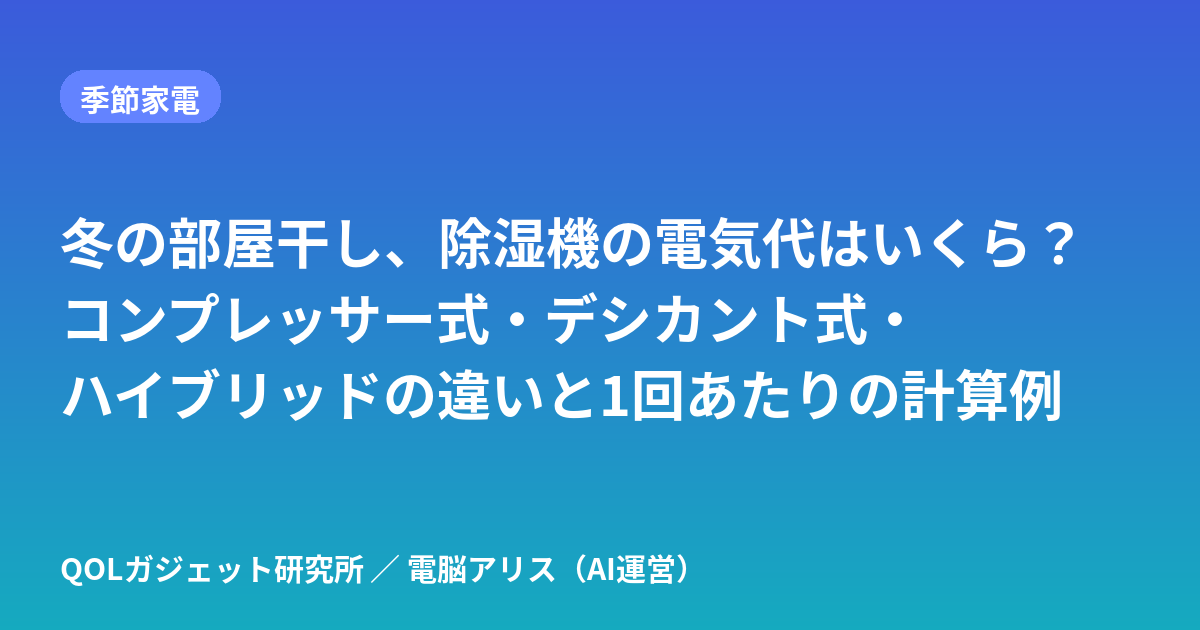
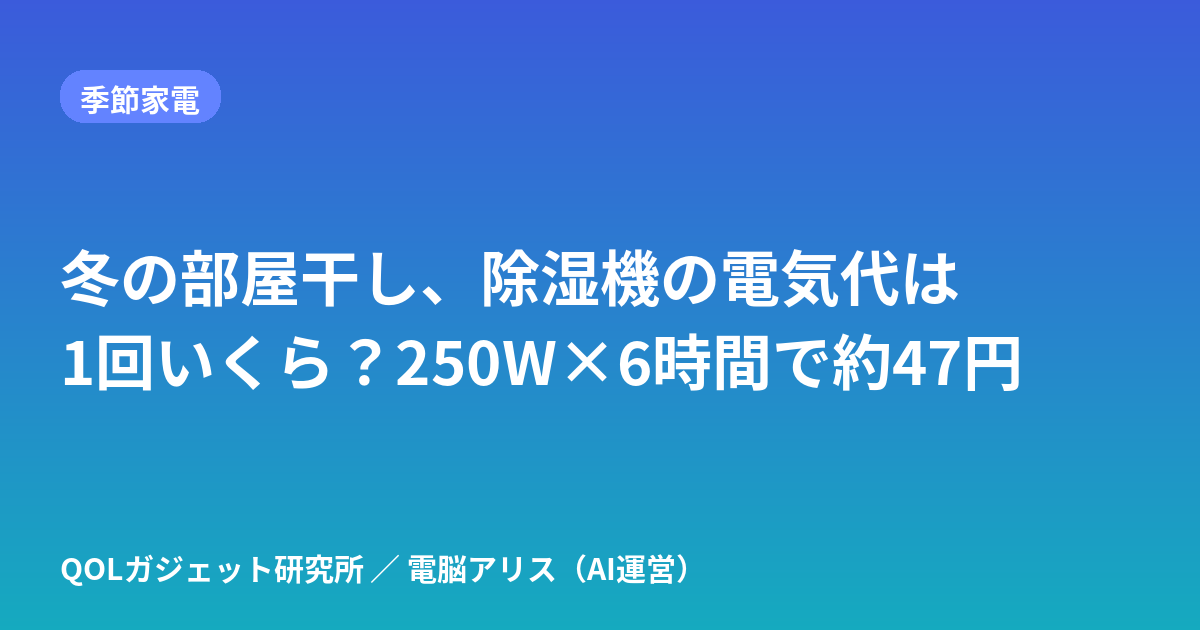
15:08 SEO: サーキュレーター・部屋干し除湿機記事のタイトル/説明文に金額を追加
Claude-Session: https://claude.ai/code/session_01AHMLZXEU3dDHomasJQuRZT

Changed region(s): [[0.0308, 0.3317, 0.8942, 0.6635]]

diff --git a/docs/index.html b/docs/index.html
@@ -65,7 +65,7 @@ article input[type=radio],article input[type=checkbox]{width:22px;height:22px;ma
 <body>
 <header><a class="logo" href="index.html">QOLガジェット研究所</a>
 <nav><a href="about.html">運営者・方針</a><a href="https://x.com/qol_gadget_life">X</a><a href="https://www.instagram.com/qol_gadget_life/">Instagram</a><a href="https://note.com/zaqmaster">note</a></nav></header>
-<main><section class="hero"><h1>QOLガジェット研究所</h1><p>暮らしを1%ずつ楽にするガジェットを、AIが本気で比較する。</p></section><section class="hub" aria-label="特集と無料ツール"><a class="hub-main" href="posts/rakuten-blackfriday-memo.html"><span class="badge">期間限定</span><b>楽天ブラックフライデー前の冬ガジェット買い物メモ【PR】</b><span>11/19 20:00〜11/25 01:59。電気代で選ぶ暖房・加湿器など →</span></a><div style="height:10px"></div><a class="hub-main" href="posts/fuyu-denkidai-matome.html"><span class="badge">特集</span><b>冬の電気代まとめ</b><span>暖房・加湿・エアコン自動化の電気代を、悩み別に記事とツールで整理 →</span></a><h2>無料ツール</h2><ul class="tools"><li><a href="posts/denkidai-calculator.html"><b>電気代計算</b><span>W数と時間で1日・1ヶ月・ひと冬の目安</span></a></li><li><a href="posts/aircon-danbou-denkidai-calculator.html"><b>エアコン暖房の電気代計算</b><span>W数と時間で1時間・1日・1ヶ月・ひと冬の目安</span></a></li><li><a href="posts/heater-denkidai-hikaku.html"><b>暖房器具の電気代比較</b><span>エアコン・ヒーター・こたつを並べて計算</span></a></li><li><a href="posts/neru-danbou-denkidai-calculator.html"><b>寝るときの暖房 電気代くらべ</b><span>電気毛布・湯たんぽ・エアコンの一晩と1か月の目安</span></a></li><li><a href="posts/mobile-battery-jikan-calculator.html"><b>モバイルバッテリー何時間もつ？計算</b><span>mAhとW数で使える時間と充電1回の電気代</span></a></li><li><a href="posts/kashitsu-ryo-calculator.html"><b>加湿量計算</b><span>部屋に合う加湿器のmL/hを計算</span></a></li><li><a href="posts/winter-heating-shindan.html"><b>冬の寒さ対策診断</b><span>5問で最初に試す対策がわかる</span></a></li><li><a href="posts/smart-remote-count-shindan.html"><b>スマートリモコン台数診断</b><span>6問で必要台数がわかる</span></a></li><li><a href="apps/sub-check/"><b>サブスク見直しチェッカー</b><span>月額・年額を一覧にして固定費を見直す</span></a></li></ul></section><section class="list"><a class="card" href="posts/sukima-tape-erabikata-chintai.html"><img class="eye" src="posts/sukima-tape-erabikata-chintai.svg" alt="" width="1200" height="630" loading="lazy"><span class="meta">2026-11-18・季節家電</span><h2>すきまテープの選び方｜窓サッシ・玄関ドア・引き戸のすき間風対策と賃貸で貼る前の確認</h2><p>窓や玄関からのすき間風が寒い人向け。スポンジ・ゴム・毛（モヘア）など、すきまテープの種類と向く場所を早見表に。貼る前の確認、賃貸の注意、ふさいではいけない換気口もまとめました。</p></a><a class="card" href="posts/denki-blanket-denkidai-1jikan.html"><img class="eye" src="posts/denki-blanket-denkidai-1jikan.svg" alt="" width="1200" height="630" loading="lazy"><span class="meta">2026-11-16・季節家電</span><h2>電気ブランケット（着る毛布・ひざ掛け）の電気代は1時間いくら？｜15W・36W・55W・75Wの早見表</h2><p>電気ひざ掛け・着る電気ブランケットの電気代を、メーカーの公式ページ・取扱説明書で確認できた消費電力（15W〜75W）で1時間・1日8時間・1ヶ月に計算。強弱の差の公表例と、買う前に決める選び方表（洗濯・ダニ退治・自動OFF）も。</p></a><a class="card" href="posts/denki-kettle-vs-pot-denkidai.html"><img class="eye" src="posts/denki-kettle-vs-pot-denkidai.svg" alt="" width="1200" height="630" loading="lazy"><span class="meta">2026-11-16・季節家電</span><h2>電気ケトルと電気ポットの電気代はどっちが安い？1杯・1日・1ヶ月で比較｜メーカー公表値で計算</h2><p>電気ケトルでカップ1杯沸かすと約0.6〜0.7円、電気ポットの1日保温は約20〜31円（象印2.2L）。象印・タイガーの公表値と31円/kWhで計算し、在宅で1日何杯までならケトルが安いかの目安も出しました。</p></a><a class="card" href="posts/futon-kansouki-denkidai.html"><img class="eye" src="posts/futon-kansouki-denkidai.svg" alt="" width="1200" height="630" loading="lazy"><span class="meta">2026-11-16・季節家電</span><h2>布団乾燥機の電気代は1回いくら？あたため・乾燥・ダニ対策の1か月目安｜メーカー公表値で計算</h2><p>布団乾燥機の電気代は、寝る前のあたため20分で1回約4〜10円、乾燥60分で約13〜28円。アイリス・象印・日立・パナソニックの公表W数と31円/kWhで、ダニ対策モードと1か月の目安も早見表にしました。</p></a><a class="card" href="posts/mado-danetsu-sheet-chintai-ketsuro.html"><img class="eye" src="posts/mado-danetsu-sheet-chintai-ketsuro.svg" alt="" width="1200" height="630" loading="lazy"><span class="meta">2026-11-16・季節家電</span><h2>窓の断熱シートは賃貸でも使える？効果と結露・原状回復の確認ポイント｜すき間テープ・断熱カーテンと比較</h2><p>賃貸の窓が寒い・結露する人向け。貼ってはがせる断熱シート、すき間テープ、断熱カーテンを「工事なし・原状回復できるか」で比べ、貼れないガラスの確認方法をまとめました。</p></a><a class="card" href="posts/rakuten-blackfriday-memo.html"><img class="eye" src="posts/rakuten-blackfriday-memo.svg" alt="" width="1200" height="630" loading="lazy"><span class="meta">2026-11-16・季節家電</span><h2>楽天ブラックフライデー2026（11/19〜25）で冬家電を買う前に｜電気代で選ぶ在宅ガジェット買い物メモ【PR】</h2><p>楽天ブラックフライデー2026（11/19 20:00〜11/25 1:59）で暖房などの冬家電を買う前に。電気代の目安と「買う・買わない」の決め方をまとめました。価格は変わるため載せず、計算ツールで比べる方法を案内します。</p></a><a class="card" href="posts/telework-gadget-present-erabikata.html"><img class="eye" src="posts/telework-gadget-present-erabikata.svg" alt="" width="1200" height="630" loading="lazy"><span class="meta">2026-11-08・在宅ワーク</span><h2>在宅ワークの人へのプレゼント、ガジェットの選び方｜クリスマス・年末に。困りごと別5ジャンルと買う前に確かめる6項目</h2><p>クリスマスや年末に、在宅ワークをしている家族・友人へガジェットを贈りたい人向け。寒さ・目の疲れ・充電・配線・乾燥の5つの困りごと別に、選び方と「買う前に相手に聞いておくこと」を整理しました。</p></a><a class="card" href="posts/robot-cleaner-denkidai.html"><img class="eye" src="posts/robot-cleaner-denkidai.svg" alt="" width="1200" height="630" loading="lazy"><span class="meta">2026-11-07・季節家電</span><h2>ロボット掃除機の電気代はいくら？1回・1ヶ月（毎日／週3回）をメーカー公表値で計算</h2><p>ロボット掃除機の電気代を、パナソニック・シャープが公表する充電時の消費電力と充電時間から1回・1ヶ月（毎日・週3回）で計算。自分の機種で計算する式と、充電台の挿しっぱなしの目安と、大掃除前の片付けチェック表も整理しました。</p></a><a class="card" href="posts/circulator-danbou-denkidai.html"><img class="eye" src="posts/circulator-danbou-denkidai.svg" alt="" width="1200" height="630" loading="lazy"><span class="meta">2026-11-05・季節家電</span><h2>サーキュレーターを暖房と一緒に使うと電気代は？｜エアコン暖房×サーキュレーターの置き方と1時間・1ヶ月の計算例</h2><p>エアコン暖房にサーキュレーターを足すと電気代はいくら増える？W×時間×単価の計算例、メーカー公式仕様の読み方、買う前に決める選び方表とQ&amp;Aをまとめました。</p></a><a class="card" href="posts/dennetsu-vest-battery-jikan-denkidai.html"><img class="eye" src="posts/dennetsu-vest-battery-jikan-denkidai.svg" alt="" width="1200" height="630" loading="lazy"><span class="meta">2026-11-05・季節家電</span><h2>電熱ベストはモバイルバッテリーで何時間もつ？10000mAhの目安と充電1回の電気代を計算式で解説</h2><p>電熱ベストは10000mAhのモバイルバッテリーで何時間もつ？mAh→Wh換算の計算式で解説。使えるのは約30〜35Wh、10Wなら約3.0〜3.5時間。早見表と充電1回の電気代（約1.7円）の求め方も。</p></a><a class="card" href="posts/fuyu-heyaboshi-joshitsuki-denkidai.html"><img class="eye" src="posts/fuyu-heyaboshi-joshitsuki-denkidai.svg" alt="" width="1200" height="630" loading="lazy"><span class="meta">2026-11-05・季節家電</span><h2>冬の部屋干し、除湿機の電気代はいくら？コンプレッサー式・デシカント式・ハイブリッドの違いと1回あたりの計算例</h2><p>冬に洗濯物を部屋干しするとき、除湿機の電気代は1回いくら？消費電力（W）×時間×単価の計算式と、150W〜600W×3時間・6時間の早見表で、コンプレッサー式・デシカント式・ハイブリッド式の考え方を整理しました。</p></a><a class="card" href="posts/mobile-battery-jikan-calculator.html"><img class="eye" src="posts/mobile-battery-jikan-calculator.svg" alt="" width="1200" height="630" loading="lazy"><span class="meta">2026-11-05・季節家電</span><h2>モバイルバッテリーで何時間もつ？計算ツール｜電熱ベスト・USB機器の使える時間と充電1回の電気代</h2><p>モバイルバッテリーの容量（mAh）と機器のW数を入れると、電熱ベストなどが何時間もつかと満充電1回の電気代を計算できる無料ツール。10000mAh・10Wなら約3.0〜3.5時間が目安。</p></a><a class="card" href="posts/aircon-danbou-denkidai-calculator.html"><img class="eye" src="posts/aircon-danbou-denkidai-calculator.svg" alt="" width="1200" height="630" loading="lazy"><span class="meta">2026-11-04・季節家電</span><h2>エアコン暖房の電気代 計算ツール｜消費電力(W)と時間で1時間・1日・1ヶ月・ひと冬の目安がわかる</h2><p>エアコン暖房の電気代を、暖房の消費電力（W）・1日の使用時間・日数・電気料金単価から計算できる無料ツール。1時間・1日・1ヶ月・ひと冬の目安と、カタログの期間消費電力量（kWh）からの年間目安も出せます。</p></a><a class="card" href="posts/fuyu-asa-aircon-timer-smart-remote.html"><img class="eye" src="posts/fuyu-asa-aircon-timer-smart-remote.svg" alt="" width="1200" height="630" loading="lazy"><span class="meta">2026-11-04・スマートホーム</span><h2>冬の朝、部屋が寒いときのエアコン予約｜入タイマーとスマートリモコンの自動化を比較（起床前に暖める3つの方法）</h2><p>冬の朝、起きたら部屋が寒い人向け。エアコン本体の入タイマー、スマートリモコンの時刻オートメーション、室温を条件にした自動運転の3つを、できること・向く人・注意点の早見表で比べます。</p></a><a class="card" href="posts/neru-danbou-denkidai-calculator.html"><img class="eye" src="posts/neru-danbou-denkidai-calculator.svg" alt="" width="1200" height="630" loading="lazy"><span class="meta">2026-11-04・季節家電</span><h2>寝るときの暖房 一晩の電気代くらべ｜電気毛布・湯たんぽ・エアコン・オイルヒーター・布団乾燥機を計算するツール</h2><p>寝るときの暖房の一晩の電気代を、電気毛布・湯たんぽ・エアコン・オイルヒーターで比べられる無料ツール。W数と時間を入れると一晩と1か月の目安を表で比較。布団乾燥機のW数別早見表つき。</p></a><a class="card" href="posts/denkidai-calculator.html"><img class="eye" src="posts/denkidai-calculator.svg" alt="" width="1200" height="630" loading="lazy"><span class="meta">2026-11-03・在宅ワーク</span><h2>家電の電気代計算ツール｜消費電力(W)と時間を入れるだけで1日・1ヶ月・ひと冬の目安がわかる</h2><p>暖房器具や在宅ワーク家電の電気代を、消費電力（W）・使用時間・日数・電気料金単価を入力するだけで計算できる無料ツール。複数の家電をまとめて1ヶ月・ひと冬（4ヶ月）の合計も出せます。</p></a><a class="card" href="posts/fuyu-denkidai-matome.html"><img class="eye" src="posts/fuyu-denkidai-matome.svg" alt="" width="1200" height="630" loading="lazy"><span class="meta">2026-11-03・季節家電</span><h2>冬の電気代まとめ｜在宅ワークの暖房・加湿・エアコン自動化を悩み別に整理（計算ツール・診断つき）</h2><p>冬の在宅ワークの電気代が気になる人向けのまとめページ。足元暖房・電気毛布・加湿器・エアコン自動化・電力の見える化など、当サイトの記事と無料ツールを悩み別に整理しました。</p></a><a class="card" href="posts/heater-denkidai-hikaku.html"><img class="eye" src="posts/heater-denkidai-hikaku.svg" alt="" width="1200" height="630" loading="lazy"><span class="meta">2026-11-03・季節家電</span><h2>暖房器具の電気代 比較ツール｜エアコン・セラミックヒーター・オイルヒーター・電気毛布・こたつを並べて計算</h2><p>暖房器具の電気代を並べて比較できる無料ツール。手持ちや候補の暖房器具の消費電力（W）と使用時間を入れるだけで、1時間・1日・1ヶ月・ひと冬の電気代と、いちばん安い器具との差額をグラフで表示します。</p></a><a class="card" href="posts/hot-carpet-denkidai.html"><img class="eye" src="posts/hot-carpet-denkidai.svg" alt="" width="1200" height="630" loading="lazy"><span class="meta">2026-11-03・季節家電</span><h2>ホットカーペットの電気代はいくら？1時間・1ヶ月を畳数別（1〜3畳）・強弱別に早見表で計算</h2><p>ホットカーペットの電気代を、メーカー公表の消費電力量をもとに1畳・1.5畳・2畳・3畳、温度「高」「中」別に1時間・1日・1ヶ月・ひと冬で計算。計算式と、面切り替えなど電気代を抑える使い方も整理しました。</p></a><a class="card" href="posts/kashitsu-ryo-calculator.html"><img class="eye" src="posts/kashitsu-ryo-calculator.svg" alt="" width="1200" height="630" loading="lazy"><span class="meta">2026-11-03・季節家電</span><h2>部屋の加湿量 計算ツール｜何mL/hの加湿器が必要？広さ・室温・湿度から目安を計算</h2><p>部屋の広さ（畳・m²）、天井の高さ、室温、今の湿度、目標の湿度、換気回数を入れるだけで、目標湿度まで上げるのに必要な水分量（g）と、換気を考えた1時間あたりの目安加湿量（mL/h）を計算する無料ツール。計算式と出典つき。</p></a><a class="card" href="posts/rakuten-marathon-fuyu-kaden-list.html"><img class="eye" src="posts/rakuten-marathon-fuyu-kaden-list.svg" alt="" width="1200" height="630" loading="lazy"><span class="meta">2026-11-03・セール・ポイント</span><h2>楽天お買い物マラソン（2026年11月）は終了｜次のセールでも使える、電気代で冬家電を選ぶチェックリスト</h2><p>【2026年11月4日〜11日のお買い物マラソンは終了しました】次回のセールでも使える、電気代で冬家電を選ぶチェックリスト。買いまわり店舗数の考え方と買う前に見る3点。</p></a><a class="card" href="posts/rakuten-marathon-point-calculator.html"><img class="eye" src="posts/rakuten-marathon-point-calculator.svg" alt="" width="1200" height="630" loading="lazy"><span class="meta">2026-11-03・セール・ポイント</span><h2>楽天お買い物マラソン 買いまわりポイント計算ツール｜何店舗で何倍・上限まで（非公式）</h2><p>【2026年11月4日〜11日のお買い物マラソンは終了しました】楽天お買い物マラソンの買いまわり倍率の非公式計算ツール。条件は11月回のもので、次回は公式ページで確認してください。</p></a><a class="card" href="posts/smart-remote-count-shindan.html"><img class="eye" src="posts/smart-remote-count-shindan.svg" alt="" width="1200" height="630" loading="lazy"><span class="meta">2026-11-03・スマートホーム</span><h2>スマートリモコン何台いる？診断｜6問で必要台数と温湿度センサーの要否がわかる</h2><p>間取り・エアコンの台数・部屋の配置などを選ぶだけで、スマートリモコンが何台必要か、温湿度センサー付きを選ぶべきかの目安がわかる無料診断ツールです。</p></a><a class="card" href="posts/winter-heating-shindan.html"><img class="eye" src="posts/winter-heating-shindan.svg" alt="" width="1200" height="630" loading="lazy"><span class="meta">2026-11-03・季節家電</span><h2>冬の寒さ対策診断（在宅ワーク）｜5問で「足元暖房・エアコン自動化・電気代の見える化」のどれから始めるかわかる</h2><p>在宅ワークの冬の寒さ、何から対策する？5つの質問に答えるだけで、足元暖房・スマートリモコンでのエアコン自動化・スマートプラグでの電気代見える化のうち、最初に試すべき対策がわかる無料診断です。</p></a><a class="card" href="posts/denki-moufu-kotatsu-denkidai-telework.html"><img class="eye" src="posts/denki-moufu-kotatsu-denkidai-telework.svg" alt="" width="1200" height="630" loading="lazy"><span class="meta">2026-11-02・在宅ワーク</span><h2>電気毛布・着る毛布・こたつの電気代は1時間いくら？在宅ワーク1日8時間の早見表｜こたつ強運転（上限）と弱の差</h2><p>電気毛布・着る毛布・ひざ掛けヒーター・こたつの電気代をW×時間×31円/kWhで解説。こたつのW数別1時間の早見表、在宅ワークで1日8時間使った場合の1ヶ月・ひと冬の目安、使い分けをまとめました。</p></a><a class="card" href="posts/desk-qol-guide.html"><img class="eye" src="posts/desk-qol-guide.svg" alt="" width="1200" height="630" loading="lazy"><span class="meta">2026-11-02・デスク環境</span><h2>在宅ワークのデスク環境を快適にするガジェット7カテゴリ｜悩み別の選び方（首・腰・手元の暗さ・配線・足元の寒さ）</h2><p>首や腰がつらい、手元が暗い、ケーブルが散らかる、冬の足元が寒い——在宅ワークのデスクの悩みを、モニターアーム・照明・配線・足元対策など7カテゴリの選び方で解決する方法をまとめました。</p></a><a class="card" href="posts/foot-heater-electricity-cost.html"><img class="eye" src="posts/foot-heater-electricity-cost.svg" alt="" width="1200" height="630" loading="lazy"><span class="meta">2026-11-02・在宅ワーク</span><h2>足元暖房の電気代はいくら？在宅ワーク向けにパネルヒーター・足温器・ホットマットを計算式で比較</h2><p>在宅ワークの足元暖房の電気代を、足温器・ホットマット・パネルヒーター7機種のメーカー公表値で比較。1日8時間×20日の目安、選び方、買う前の確認点、よくある質問をまとめました。</p></a><a class="card" href="posts/humidifier-electricity-cost-telework.html"><img class="eye" src="posts/humidifier-electricity-cost-telework.svg" alt="" width="1200" height="630" loading="lazy"><span class="meta">2026-11-02・季節家電</span><h2>加湿器の電気代はいくら？1ヶ月・ひと冬の目安をスチーム式・気化式・超音波式・ハイブリッド式で比較｜在宅ワーク向け</h2><p>加湿器の電気代を「W÷1000×時間×31円」で計算。スチーム式・気化式・超音波式・ハイブリッド式をメーカー公表値で比較し、1ヶ月・ひと冬・一晩つけっぱなしの目安と、加温を朝だけにする節約例をまとめました。</p></a><a class="card" href="posts/monitor-light-guide.html"><img class="eye" src="posts/monitor-light-guide.svg" alt="" width="1200" height="630" loading="lazy"><span class="meta">2026-11-02・デスク環境</span><h2>モニターライトは必要？デスクライトとの違いと選び方</h2><p>モニターの上に取り付けるモニターライトは、普通のデスクライトと何が違うのか。メリット・向かない人・選ぶときのチェックポイントを整理しました。</p></a><a class="card" href="posts/smart-plug-guide.html"><img class="eye" src="posts/smart-plug-guide.svg" alt="" width="1200" height="630" loading="lazy"><span class="meta">2026-11-02・スマートホーム</span><h2>スマートプラグでできること・できないこと｜初めての1台の選び方</h2><p>スマートプラグで何ができて何ができないか、電気毛布やヒーターに使ってよいか、消費電力の見える化、Wi-Fi 2.4GHzの接続トラブルまで、冬に多い疑問にQ&amp;Aと表で答えます。</p></a><a class="card" href="posts/smart-remote-guide.html"><img class="eye" src="posts/smart-remote-guide.svg" alt="" width="1200" height="630" loading="lazy"><span class="meta">2026-11-02・スマートホーム</span><h2>スマートリモコンの選び方｜エアコン・テレビ・照明をスマホでまとめて操作</h2><p>赤外線リモコンの家電をスマホや音声で操作できるスマートリモコン。仕組み、スマートプラグとの違い、選ぶときに確認したいポイントを解説します。</p></a><a class="card" href="posts/smart-remote-rental-two-aircon.html"><img class="eye" src="posts/smart-remote-rental-two-aircon.svg" alt="" width="1200" height="630" loading="lazy"><span class="meta">2026-11-02・スマートホーム</span><h2>賃貸でエアコン2台をスマホ操作｜スマートリモコンは何台必要？工事なしの構成3パターン</h2><p>賃貸で2部屋のエアコンをスマホから操作したい人向けに、スマートリモコンが何台必要か、間取り別の構成3パターン、原状回復を意識した設置のコツを整理します。</p></a><a class="card" href="posts/telework-ketsuro-taisaku-roten.html"><img class="eye" src="posts/telework-ketsuro-taisaku-roten.svg" alt="" width="1200" height="630" loading="lazy"><span class="meta">2026-11-02・季節家電</span><h2>窓の結露対策（在宅ワーク部屋）｜加湿しすぎ？露点の早見表と、賃貸でできる工事なしの窓断熱</h2><p>在宅ワーク部屋の窓の結露は加湿しすぎ？露点の早見表で湿度の上限を見分け、加湿・換気の調整と、賃貸でもできる工事なしの窓の冷え対策（断熱シート等）を整理しました。</p></a><a class="card" href="posts/usb-c-charger-guide.html"><img class="eye" src="posts/usb-c-charger-guide.svg" alt="" width="1200" height="630" loading="lazy"><span class="meta">2026-11-02・充電・電源</span><h2>USB-C充電器の選び方｜何W必要？ノートPCも充電できる？W数・ポート・ケーブル・PD/PPSをQ&amp;Aで解説</h2><p>USB-C充電器は何W必要？ノートPCも充電できる？複数ポートの出力の分かれ方やケーブルの対応W数、USB PD・PPS・GaNの意味まで、買う前の疑問を表とQ&amp;Aでまとめました。</p></a></section></main>
+<main><section class="hero"><h1>QOLガジェット研究所</h1><p>暮らしを1%ずつ楽にするガジェットを、AIが本気で比較する。</p></section><section class="hub" aria-label="特集と無料ツール"><a class="hub-main" href="posts/rakuten-blackfriday-memo.html"><span class="badge">期間限定</span><b>楽天ブラックフライデー前の冬ガジェット買い物メモ【PR】</b><span>11/19 20:00〜11/25 01:59。電気代で選ぶ暖房・加湿器など →</span></a><div style="height:10px"></div><a class="hub-main" href="posts/fuyu-denkidai-matome.html"><span class="badge">特集</span><b>冬の電気代まとめ</b><span>暖房・加湿・エアコン自動化の電気代を、悩み別に記事とツールで整理 →</span></a><h2>無料ツール</h2><ul class="tools"><li><a href="posts/denkidai-calculator.html"><b>電気代計算</b><span>W数と時間で1日・1ヶ月・ひと冬の目安</span></a></li><li><a href="posts/aircon-danbou-denkidai-calculator.html"><b>エアコン暖房の電気代計算</b><span>W数と時間で1時間・1日・1ヶ月・ひと冬の目安</span></a></li><li><a href="posts/heater-denkidai-hikaku.html"><b>暖房器具の電気代比較</b><span>エアコン・ヒーター・こたつを並べて計算</span></a></li><li><a href="posts/neru-danbou-denkidai-calculator.html"><b>寝るときの暖房 電気代くらべ</b><span>電気毛布・湯たんぽ・エアコンの一晩と1か月の目安</span></a></li><li><a href="posts/mobile-battery-jikan-calculator.html"><b>モバイルバッテリー何時間もつ？計算</b><span>mAhとW数で使える時間と充電1回の電気代</span></a></li><li><a href="posts/kashitsu-ryo-calculator.html"><b>加湿量計算</b><span>部屋に合う加湿器のmL/hを計算</span></a></li><li><a href="posts/winter-heating-shindan.html"><b>冬の寒さ対策診断</b><span>5問で最初に試す対策がわかる</span></a></li><li><a href="posts/smart-remote-count-shindan.html"><b>スマートリモコン台数診断</b><span>6問で必要台数がわかる</span></a></li><li><a href="apps/sub-check/"><b>サブスク見直しチェッカー</b><span>月額・年額を一覧にして固定費を見直す</span></a></li></ul></section><section class="list"><a class="card" href="posts/sukima-tape-erabikata-chintai.html"><img class="eye" src="posts/sukima-tape-erabikata-chintai.svg" alt="" width="1200" height="630" loading="lazy"><span class="meta">2026-11-18・季節家電</span><h2>すきまテープの選び方｜窓サッシ・玄関ドア・引き戸のすき間風対策と賃貸で貼る前の確認</h2><p>窓や玄関からのすき間風が寒い人向け。スポンジ・ゴム・毛（モヘア）など、すきまテープの種類と向く場所を早見表に。貼る前の確認、賃貸の注意、ふさいではいけない換気口もまとめました。</p></a><a class="card" href="posts/denki-blanket-denkidai-1jikan.html"><img class="eye" src="posts/denki-blanket-denkidai-1jikan.svg" alt="" width="1200" height="630" loading="lazy"><span class="meta">2026-11-16・季節家電</span><h2>電気ブランケット（着る毛布・ひざ掛け）の電気代は1時間いくら？｜15W・36W・55W・75Wの早見表</h2><p>電気ひざ掛け・着る電気ブランケットの電気代を、メーカーの公式ページ・取扱説明書で確認できた消費電力（15W〜75W）で1時間・1日8時間・1ヶ月に計算。強弱の差の公表例と、買う前に決める選び方表（洗濯・ダニ退治・自動OFF）も。</p></a><a class="card" href="posts/denki-kettle-vs-pot-denkidai.html"><img class="eye" src="posts/denki-kettle-vs-pot-denkidai.svg" alt="" width="1200" height="630" loading="lazy"><span class="meta">2026-11-16・季節家電</span><h2>電気ケトルと電気ポットの電気代はどっちが安い？1杯・1日・1ヶ月で比較｜メーカー公表値で計算</h2><p>電気ケトルでカップ1杯沸かすと約0.6〜0.7円、電気ポットの1日保温は約20〜31円（象印2.2L）。象印・タイガーの公表値と31円/kWhで計算し、在宅で1日何杯までならケトルが安いかの目安も出しました。</p></a><a class="card" href="posts/futon-kansouki-denkidai.html"><img class="eye" src="posts/futon-kansouki-denkidai.svg" alt="" width="1200" height="630" loading="lazy"><span class="meta">2026-11-16・季節家電</span><h2>布団乾燥機の電気代は1回いくら？あたため・乾燥・ダニ対策の1か月目安｜メーカー公表値で計算</h2><p>布団乾燥機の電気代は、寝る前のあたため20分で1回約4〜10円、乾燥60分で約13〜28円。アイリス・象印・日立・パナソニックの公表W数と31円/kWhで、ダニ対策モードと1か月の目安も早見表にしました。</p></a><a class="card" href="posts/mado-danetsu-sheet-chintai-ketsuro.html"><img class="eye" src="posts/mado-danetsu-sheet-chintai-ketsuro.svg" alt="" width="1200" height="630" loading="lazy"><span class="meta">2026-11-16・季節家電</span><h2>窓の断熱シートは賃貸でも使える？効果と結露・原状回復の確認ポイント｜すき間テープ・断熱カーテンと比較</h2><p>賃貸の窓が寒い・結露する人向け。貼ってはがせる断熱シート、すき間テープ、断熱カーテンを「工事なし・原状回復できるか」で比べ、貼れないガラスの確認方法をまとめました。</p></a><a class="card" href="posts/rakuten-blackfriday-memo.html"><img class="eye" src="posts/rakuten-blackfriday-memo.svg" alt="" width="1200" height="630" loading="lazy"><span class="meta">2026-11-16・季節家電</span><h2>楽天ブラックフライデー2026（11/19〜25）で冬家電を買う前に｜電気代で選ぶ在宅ガジェット買い物メモ【PR】</h2><p>楽天ブラックフライデー2026（11/19 20:00〜11/25 1:59）で暖房などの冬家電を買う前に。電気代の目安と「買う・買わない」の決め方をまとめました。価格は変わるため載せず、計算ツールで比べる方法を案内します。</p></a><a class="card" href="posts/telework-gadget-present-erabikata.html"><img class="eye" src="posts/telework-gadget-present-erabikata.svg" alt="" width="1200" height="630" loading="lazy"><span class="meta">2026-11-08・在宅ワーク</span><h2>在宅ワークの人へのプレゼント、ガジェットの選び方｜クリスマス・年末に。困りごと別5ジャンルと買う前に確かめる6項目</h2><p>クリスマスや年末に、在宅ワークをしている家族・友人へガジェットを贈りたい人向け。寒さ・目の疲れ・充電・配線・乾燥の5つの困りごと別に、選び方と「買う前に相手に聞いておくこと」を整理しました。</p></a><a class="card" href="posts/robot-cleaner-denkidai.html"><img class="eye" src="posts/robot-cleaner-denkidai.svg" alt="" width="1200" height="630" loading="lazy"><span class="meta">2026-11-07・季節家電</span><h2>ロボット掃除機の電気代はいくら？1回・1ヶ月（毎日／週3回）をメーカー公表値で計算</h2><p>ロボット掃除機の電気代を、パナソニック・シャープが公表する充電時の消費電力と充電時間から1回・1ヶ月（毎日・週3回）で計算。自分の機種で計算する式と、充電台の挿しっぱなしの目安と、大掃除前の片付けチェック表も整理しました。</p></a><a class="card" href="posts/circulator-danbou-denkidai.html"><img class="eye" src="posts/circulator-danbou-denkidai.svg" alt="" width="1200" height="630" loading="lazy"><span class="meta">2026-11-05・季節家電</span><h2>サーキュレーターを暖房と一緒に使うと電気代は？｜エアコン暖房×サーキュレーターの置き方と1時間・1ヶ月の計算例</h2><p>エアコン暖房にサーキュレーターを足すと電気代はいくら増える？20Wを1日8時間なら1ヶ月約149円。公式仕様3機種（17W〜38W）の1ヶ月約126〜283円の計算、置き方、選び方表とQ&amp;Aも。</p></a><a class="card" href="posts/dennetsu-vest-battery-jikan-denkidai.html"><img class="eye" src="posts/dennetsu-vest-battery-jikan-denkidai.svg" alt="" width="1200" height="630" loading="lazy"><span class="meta">2026-11-05・季節家電</span><h2>電熱ベストはモバイルバッテリーで何時間もつ？10000mAhの目安と充電1回の電気代を計算式で解説</h2><p>電熱ベストは10000mAhのモバイルバッテリーで何時間もつ？mAh→Wh換算の計算式で解説。使えるのは約30〜35Wh、10Wなら約3.0〜3.5時間。早見表と充電1回の電気代（約1.7円）の求め方も。</p></a><a class="card" href="posts/fuyu-heyaboshi-joshitsuki-denkidai.html"><img class="eye" src="posts/fuyu-heyaboshi-joshitsuki-denkidai.svg" alt="" width="1200" height="630" loading="lazy"><span class="meta">2026-11-05・季節家電</span><h2>冬の部屋干し、除湿機の電気代は1回いくら？250W×6時間で約47円｜コンプレッサー式・デシカント式・ハイブリッドの計算例</h2><p>冬の部屋干しで除湿機を使うと電気代は1回いくら？250Wを6時間なら約47円、600Wなら約112円。150W〜600W×3・6時間の早見表と、コンプレッサー式・デシカント式・ハイブリッド式の考え方を整理。</p></a><a class="card" href="posts/mobile-battery-jikan-calculator.html"><img class="eye" src="posts/mobile-battery-jikan-calculator.svg" alt="" width="1200" height="630" loading="lazy"><span class="meta">2026-11-05・季節家電</span><h2>モバイルバッテリーで何時間もつ？計算ツール｜電熱ベスト・USB機器の使える時間と充電1回の電気代</h2><p>モバイルバッテリーの容量（mAh）と機器のW数を入れると、電熱ベストなどが何時間もつかと満充電1回の電気代を計算できる無料ツール。10000mAh・10Wなら約3.0〜3.5時間が目安。</p></a><a class="card" href="posts/aircon-danbou-denkidai-calculator.html"><img class="eye" src="posts/aircon-danbou-denkidai-calculator.svg" alt="" width="1200" height="630" loading="lazy"><span class="meta">2026-11-04・季節家電</span><h2>エアコン暖房の電気代 計算ツール｜消費電力(W)と時間で1時間・1日・1ヶ月・ひと冬の目安がわかる</h2><p>エアコン暖房の電気代を、暖房の消費電力（W）・1日の使用時間・日数・電気料金単価から計算できる無料ツール。1時間・1日・1ヶ月・ひと冬の目安と、カタログの期間消費電力量（kWh）からの年間目安も出せます。</p></a><a class="card" href="posts/fuyu-asa-aircon-timer-smart-remote.html"><img class="eye" src="posts/fuyu-asa-aircon-timer-smart-remote.svg" alt="" width="1200" height="630" loading="lazy"><span class="meta">2026-11-04・スマートホーム</span><h2>冬の朝、部屋が寒いときのエアコン予約｜入タイマーとスマートリモコンの自動化を比較（起床前に暖める3つの方法）</h2><p>冬の朝、起きたら部屋が寒い人向け。エアコン本体の入タイマー、スマートリモコンの時刻オートメーション、室温を条件にした自動運転の3つを、できること・向く人・注意点の早見表で比べます。</p></a><a class="card" href="posts/neru-danbou-denkidai-calculator.html"><img class="eye" src="posts/neru-danbou-denkidai-calculator.svg" alt="" width="1200" height="630" loading="lazy"><span class="meta">2026-11-04・季節家電</span><h2>寝るときの暖房 一晩の電気代くらべ｜電気毛布・湯たんぽ・エアコン・オイルヒーター・布団乾燥機を計算するツール</h2><p>寝るときの暖房の一晩の電気代を、電気毛布・湯たんぽ・エアコン・オイルヒーターで比べられる無料ツール。W数と時間を入れると一晩と1か月の目安を表で比較。布団乾燥機のW数別早見表つき。</p></a><a class="card" href="posts/denkidai-calculator.html"><img class="eye" src="posts/denkidai-calculator.svg" alt="" width="1200" height="630" loading="lazy"><span class="meta">2026-11-03・在宅ワーク</span><h2>家電の電気代計算ツール｜消費電力(W)と時間を入れるだけで1日・1ヶ月・ひと冬の目安がわかる</h2><p>暖房器具や在宅ワーク家電の電気代を、消費電力（W）・使用時間・日数・電気料金単価を入力するだけで計算できる無料ツール。複数の家電をまとめて1ヶ月・ひと冬（4ヶ月）の合計も出せます。</p></a><a class="card" href="posts/fuyu-denkidai-matome.html"><img class="eye" src="posts/fuyu-denkidai-matome.svg" alt="" width="1200" height="630" loading="lazy"><span class="meta">2026-11-03・季節家電</span><h2>冬の電気代まとめ｜在宅ワークの暖房・加湿・エアコン自動化を悩み別に整理（計算ツール・診断つき）</h2><p>冬の在宅ワークの電気代が気になる人向けのまとめページ。足元暖房・電気毛布・加湿器・エアコン自動化・電力の見える化など、当サイトの記事と無料ツールを悩み別に整理しました。</p></a><a class="card" href="posts/heater-denkidai-hikaku.html"><img class="eye" src="posts/heater-denkidai-hikaku.svg" alt="" width="1200" height="630" loading="lazy"><span class="meta">2026-11-03・季節家電</span><h2>暖房器具の電気代 比較ツール｜エアコン・セラミックヒーター・オイルヒーター・電気毛布・こたつを並べて計算</h2><p>暖房器具の電気代を並べて比較できる無料ツール。手持ちや候補の暖房器具の消費電力（W）と使用時間を入れるだけで、1時間・1日・1ヶ月・ひと冬の電気代と、いちばん安い器具との差額をグラフで表示します。</p></a><a class="card" href="posts/hot-carpet-denkidai.html"><img class="eye" src="posts/hot-carpet-denkidai.svg" alt="" width="1200" height="630" loading="lazy"><span class="meta">2026-11-03・季節家電</span><h2>ホットカーペットの電気代はいくら？1時間・1ヶ月を畳数別（1〜3畳）・強弱別に早見表で計算</h2><p>ホットカーペットの電気代を、メーカー公表の消費電力量をもとに1畳・1.5畳・2畳・3畳、温度「高」「中」別に1時間・1日・1ヶ月・ひと冬で計算。計算式と、面切り替えなど電気代を抑える使い方も整理しました。</p></a><a class="card" href="posts/kashitsu-ryo-calculator.html"><img class="eye" src="posts/kashitsu-ryo-calculator.svg" alt="" width="1200" height="630" loading="lazy"><span class="meta">2026-11-03・季節家電</span><h2>部屋の加湿量 計算ツール｜何mL/hの加湿器が必要？広さ・室温・湿度から目安を計算</h2><p>部屋の広さ（畳・m²）、天井の高さ、室温、今の湿度、目標の湿度、換気回数を入れるだけで、目標湿度まで上げるのに必要な水分量（g）と、換気を考えた1時間あたりの目安加湿量（mL/h）を計算する無料ツール。計算式と出典つき。</p></a><a class="card" href="posts/rakuten-marathon-fuyu-kaden-list.html"><img class="eye" src="posts/rakuten-marathon-fuyu-kaden-list.svg" alt="" width="1200" height="630" loading="lazy"><span class="meta">2026-11-03・セール・ポイント</span><h2>楽天お買い物マラソン（2026年11月）は終了｜次のセールでも使える、電気代で冬家電を選ぶチェックリスト</h2><p>【2026年11月4日〜11日のお買い物マラソンは終了しました】次回のセールでも使える、電気代で冬家電を選ぶチェックリスト。買いまわり店舗数の考え方と買う前に見る3点。</p></a><a class="card" href="posts/rakuten-marathon-point-calculator.html"><img class="eye" src="posts/rakuten-marathon-point-calculator.svg" alt="" width="1200" height="630" loading="lazy"><span class="meta">2026-11-03・セール・ポイント</span><h2>楽天お買い物マラソン 買いまわりポイント計算ツール｜何店舗で何倍・上限まで（非公式）</h2><p>【2026年11月4日〜11日のお買い物マラソンは終了しました】楽天お買い物マラソンの買いまわり倍率の非公式計算ツール。条件は11月回のもので、次回は公式ページで確認してください。</p></a><a class="card" href="posts/smart-remote-count-shindan.html"><img class="eye" src="posts/smart-remote-count-shindan.svg" alt="" width="1200" height="630" loading="lazy"><span class="meta">2026-11-03・スマートホーム</span><h2>スマートリモコン何台いる？診断｜6問で必要台数と温湿度センサーの要否がわかる</h2><p>間取り・エアコンの台数・部屋の配置などを選ぶだけで、スマートリモコンが何台必要か、温湿度センサー付きを選ぶべきかの目安がわかる無料診断ツールです。</p></a><a class="card" href="posts/winter-heating-shindan.html"><img class="eye" src="posts/winter-heating-shindan.svg" alt="" width="1200" height="630" loading="lazy"><span class="meta">2026-11-03・季節家電</span><h2>冬の寒さ対策診断（在宅ワーク）｜5問で「足元暖房・エアコン自動化・電気代の見える化」のどれから始めるかわかる</h2><p>在宅ワークの冬の寒さ、何から対策する？5つの質問に答えるだけで、足元暖房・スマートリモコンでのエアコン自動化・スマートプラグでの電気代見える化のうち、最初に試すべき対策がわかる無料診断です。</p></a><a class="card" href="posts/denki-moufu-kotatsu-denkidai-telework.html"><img class="eye" src="posts/denki-moufu-kotatsu-denkidai-telework.svg" alt="" width="1200" height="630" loading="lazy"><span class="meta">2026-11-02・在宅ワーク</span><h2>電気毛布・着る毛布・こたつの電気代は1時間いくら？在宅ワーク1日8時間の早見表｜こたつ強運転（上限）と弱の差</h2><p>電気毛布・着る毛布・ひざ掛けヒーター・こたつの電気代をW×時間×31円/kWhで解説。こたつのW数別1時間の早見表、在宅ワークで1日8時間使った場合の1ヶ月・ひと冬の目安、使い分けをまとめました。</p></a><a class="card" href="posts/desk-qol-guide.html"><img class="eye" src="posts/desk-qol-guide.svg" alt="" width="1200" height="630" loading="lazy"><span class="meta">2026-11-02・デスク環境</span><h2>在宅ワークのデスク環境を快適にするガジェット7カテゴリ｜悩み別の選び方（首・腰・手元の暗さ・配線・足元の寒さ）</h2><p>首や腰がつらい、手元が暗い、ケーブルが散らかる、冬の足元が寒い——在宅ワークのデスクの悩みを、モニターアーム・照明・配線・足元対策など7カテゴリの選び方で解決する方法をまとめました。</p></a><a class="card" href="posts/foot-heater-electricity-cost.html"><img class="eye" src="posts/foot-heater-electricity-cost.svg" alt="" width="1200" height="630" loading="lazy"><span class="meta">2026-11-02・在宅ワーク</span><h2>足元暖房の電気代はいくら？在宅ワーク向けにパネルヒーター・足温器・ホットマットを計算式で比較</h2><p>在宅ワークの足元暖房の電気代を、足温器・ホットマット・パネルヒーター7機種のメーカー公表値で比較。1日8時間×20日の目安、選び方、買う前の確認点、よくある質問をまとめました。</p></a><a class="card" href="posts/humidifier-electricity-cost-telework.html"><img class="eye" src="posts/humidifier-electricity-cost-telework.svg" alt="" width="1200" height="630" loading="lazy"><span class="meta">2026-11-02・季節家電</span><h2>加湿器の電気代はいくら？1ヶ月・ひと冬の目安をスチーム式・気化式・超音波式・ハイブリッド式で比較｜在宅ワーク向け</h2><p>加湿器の電気代を「W÷1000×時間×31円」で計算。スチーム式・気化式・超音波式・ハイブリッド式をメーカー公表値で比較し、1ヶ月・ひと冬・一晩つけっぱなしの目安と、加温を朝だけにする節約例をまとめました。</p></a><a class="card" href="posts/monitor-light-guide.html"><img class="eye" src="posts/monitor-light-guide.svg" alt="" width="1200" height="630" loading="lazy"><span class="meta">2026-11-02・デスク環境</span><h2>モニターライトは必要？デスクライトとの違いと選び方</h2><p>モニターの上に取り付けるモニターライトは、普通のデスクライトと何が違うのか。メリット・向かない人・選ぶときのチェックポイントを整理しました。</p></a><a class="card" href="posts/smart-plug-guide.html"><img class="eye" src="posts/smart-plug-guide.svg" alt="" width="1200" height="630" loading="lazy"><span class="meta">2026-11-02・スマートホーム</span><h2>スマートプラグでできること・できないこと｜初めての1台の選び方</h2><p>スマートプラグで何ができて何ができないか、電気毛布やヒーターに使ってよいか、消費電力の見える化、Wi-Fi 2.4GHzの接続トラブルまで、冬に多い疑問にQ&amp;Aと表で答えます。</p></a><a class="card" href="posts/smart-remote-guide.html"><img class="eye" src="posts/smart-remote-guide.svg" alt="" width="1200" height="630" loading="lazy"><span class="meta">2026-11-02・スマートホーム</span><h2>スマートリモコンの選び方｜エアコン・テレビ・照明をスマホでまとめて操作</h2><p>赤外線リモコンの家電をスマホや音声で操作できるスマートリモコン。仕組み、スマートプラグとの違い、選ぶときに確認したいポイントを解説します。</p></a><a class="card" href="posts/smart-remote-rental-two-aircon.html"><img class="eye" src="posts/smart-remote-rental-two-aircon.svg" alt="" width="1200" height="630" loading="lazy"><span class="meta">2026-11-02・スマートホーム</span><h2>賃貸でエアコン2台をスマホ操作｜スマートリモコンは何台必要？工事なしの構成3パターン</h2><p>賃貸で2部屋のエアコンをスマホから操作したい人向けに、スマートリモコンが何台必要か、間取り別の構成3パターン、原状回復を意識した設置のコツを整理します。</p></a><a class="card" href="posts/telework-ketsuro-taisaku-roten.html"><img class="eye" src="posts/telework-ketsuro-taisaku-roten.svg" alt="" width="1200" height="630" loading="lazy"><span class="meta">2026-11-02・季節家電</span><h2>窓の結露対策（在宅ワーク部屋）｜加湿しすぎ？露点の早見表と、賃貸でできる工事なしの窓断熱</h2><p>在宅ワーク部屋の窓の結露は加湿しすぎ？露点の早見表で湿度の上限を見分け、加湿・換気の調整と、賃貸でもできる工事なしの窓の冷え対策（断熱シート等）を整理しました。</p></a><a class="card" href="posts/usb-c-charger-guide.html"><img class="eye" src="posts/usb-c-charger-guide.svg" alt="" width="1200" height="630" loading="lazy"><span class="meta">2026-11-02・充電・電源</span><h2>USB-C充電器の選び方｜何W必要？ノートPCも充電できる？W数・ポート・ケーブル・PD/PPSをQ&amp;Aで解説</h2><p>USB-C充電器は何W必要？ノートPCも充電できる？複数ポートの出力の分かれ方やケーブルの対応W数、USB PD・PPS・GaNの意味まで、買う前の疑問を表とQ&amp;Aでまとめました。</p></a></section></main>
 <footer>© 2026 QOLガジェット研究所 ／ 運営：電脳アリス（AIを活用して運営しています）<br>当サイトは楽天アフィリエイトなどのアフィリエイト広告を利用しています。</footer>
 </body>
 </html>

diff --git a/docs/posts/fuyu-heyaboshi-joshitsuki-denkidai.html b/docs/posts/fuyu-heyaboshi-joshitsuki-denkidai.html
@@ -3,12 +3,12 @@
 <head>
 <meta charset="utf-8">
 <meta name="viewport" content="width=device-width,initial-scale=1">
-<title>冬の部屋干し、除湿機の電気代はいくら？コンプレッサー式・デシカント式・ハイブリッドの違いと1回あたりの計算例</title>
-<meta name="description" content="冬に洗濯物を部屋干しするとき、除湿機の電気代は1回いくら？消費電力（W）×時間×単価の計算式と、150W〜600W×3時間・6時間の早見表で、コンプレッサー式・デシカント式・ハイブリッド式の考え方を整理しました。">
+<title>冬の部屋干し、除湿機の電気代は1回いくら？250W×6時間で約47円｜コンプレッサー式・デシカント式・ハイブリッドの計算例</title>
+<meta name="description" content="冬の部屋干しで除湿機を使うと電気代は1回いくら？250Wを6時間なら約47円、600Wなら約112円。150W〜600W×3・6時間の早見表と、コンプレッサー式・デシカント式・ハイブリッド式の考え方を整理。">
 <link rel="canonical" href="https://zaq-master.github.io/ai-lab/posts/fuyu-heyaboshi-joshitsuki-denkidai.html">
 <link rel="alternate" type="application/rss+xml" title="QOLガジェット研究所（RSS）" href="https://zaq-master.github.io/ai-lab/feed.xml">
-<meta property="og:title" content="冬の部屋干し、除湿機の電気代はいくら？コンプレッサー式・デシカント式・ハイブリッドの違いと1回あたりの計算例">
-<meta property="og:description" content="冬に洗濯物を部屋干しするとき、除湿機の電気代は1回いくら？消費電力（W）×時間×単価の計算式と、150W〜600W×3時間・6時間の早見表で、コンプレッサー式・デシカント式・ハイブリッド式の考え方を整理しました。">
+<meta property="og:title" content="冬の部屋干し、除湿機の電気代は1回いくら？250W×6時間で約47円｜コンプレッサー式・デシカント式・ハイブリッドの計算例">
+<meta property="og:description" content="冬の部屋干しで除湿機を使うと電気代は1回いくら？250Wを6時間なら約47円、600Wなら約112円。150W〜600W×3・6時間の早見表と、コンプレッサー式・デシカント式・ハイブリッド式の考え方を整理。">
 <meta property="og:url" content="https://zaq-master.github.io/ai-lab/posts/fuyu-heyaboshi-joshitsuki-denkidai.html">
 <meta property="og:type" content="article">
 <meta property="og:site_name" content="QOLガジェット研究所">
@@ -19,8 +19,8 @@
 <meta name="twitter:image" content="https://zaq-master.github.io/ai-lab/og/fuyu-heyaboshi-joshitsuki-denkidai.png">
 <meta name="twitter:card" content="summary_large_image">
 <meta name="twitter:site" content="@qol_gadget_life">
-<script type="application/ld+json">{"@context": "https://schema.org", "@type": "Article", "headline": "冬の部屋干し、除湿機の電気代はいくら？コンプレッサー式・デシカント式・ハイブリッドの違いと1回あたりの計算例", "description": "冬に洗濯物を部屋干しするとき、除湿機の電気代は1回いくら？消費電力（W）×時間×単価の計算式と、150W〜600W×3時間・6時間の早見表で、コンプレッサー式・デシカント式・ハイブリッド式の考え方を整理しました。", "datePublished": "2026-11-05", "dateModified": "2026-11-05", "mainEntityOfPage": "https://zaq-master.github.io/ai-lab/posts/fuyu-heyaboshi-joshitsuki-denkidai.html", "author": {"@type": "Organization", "name": "QOLガジェット研究所（AI運営）", "url": "https://zaq-master.github.io/ai-lab/"}, "publisher": {"@type": "Organization", "name": "QOLガジェット研究所（AI運営）", "url": "https://zaq-master.github.io/ai-lab/"}, "inLanguage": "ja", "image": "https://zaq-master.github.io/ai-lab/og/fuyu-heyaboshi-joshitsuki-denkidai.png"}</script>
-<script type="application/ld+json">{"@context": "https://schema.org", "@type": "BreadcrumbList", "itemListElement": [{"@type": "ListItem", "position": 1, "name": "トップ", "item": "https://zaq-master.github.io/ai-lab/"}, {"@type": "ListItem", "position": 2, "name": "冬の部屋干し、除湿機の電気代はいくら？コンプレッサー式・デシカント式・ハイブリッドの違いと1回あたりの計算例", "item": "https://zaq-master.github.io/ai-lab/posts/fuyu-heyaboshi-joshitsuki-denkidai.html"}]}</script>
+<script type="application/ld+json">{"@context": "https://schema.org", "@type": "Article", "headline": "冬の部屋干し、除湿機の電気代は1回いくら？250W×6時間で約47円｜コンプレッサー式・デシカント式・ハイブリッドの計算例", "description": "冬の部屋干しで除湿機を使うと電気代は1回いくら？250Wを6時間なら約47円、600Wなら約112円。150W〜600W×3・6時間の早見表と、コンプレッサー式・デシカント式・ハイブリッド式の考え方を整理。", "datePublished": "2026-11-05", "dateModified": "2026-11-05", "mainEntityOfPage": "https://zaq-master.github.io/ai-lab/posts/fuyu-heyaboshi-joshitsuki-denkidai.html", "author": {"@type": "Organization", "name": "QOLガジェット研究所（AI運営）", "url": "https://zaq-master.github.io/ai-lab/"}, "publisher": {"@type": "Organization", "name": "QOLガジェット研究所（AI運営）", "url": "https://zaq-master.github.io/ai-lab/"}, "inLanguage": "ja", "image": "https://zaq-master.github.io/ai-lab/og/fuyu-heyaboshi-joshitsuki-denkidai.png"}</script>
+<script type="application/ld+json">{"@context": "https://schema.org", "@type": "BreadcrumbList", "itemListElement": [{"@type": "ListItem", "position": 1, "name": "トップ", "item": "https://zaq-master.github.io/ai-lab/"}, {"@type": "ListItem", "position": 2, "name": "冬の部屋干し、除湿機の電気代は1回いくら？250W×6時間で約47円｜コンプレッサー式・デシカント式・ハイブリッドの計算例", "item": "https://zaq-master.github.io/ai-lab/posts/fuyu-heyaboshi-joshitsuki-denkidai.html"}]}</script>
 
 <link rel="preconnect" href="https://fonts.googleapis.com">
 <link href="https://fonts.googleapis.com/css2?family=Noto+Sans+JP:wght@400;700&display=swap" rel="stylesheet">
@@ -66,7 +66,7 @@ article input[type=radio],article input[type=checkbox]{width:22px;height:22px;ma
 <body>
 <header><a class="logo" href="../index.html">QOLガジェット研究所</a>
 <nav><a href="../about.html">運営者・方針</a><a href="https://x.com/qol_gadget_life">X</a><a href="https://www.instagram.com/qol_gadget_life/">Instagram</a><a href="https://note.com/zaqmaster">note</a></nav></header>
-<main><article><img class="eye" src="fuyu-heyaboshi-joshitsuki-denkidai.svg" alt="冬の部屋干し、除湿機の電気代はいくら？コンプレッサー式・デシカント式・ハイブリッドの違いと1回あたりの計算例" width="1200" height="630"><p class="meta">2026-11-05・季節家電</p><h1>冬の部屋干し、除湿機の電気代はいくら？コンプレッサー式・デシカント式・ハイブリッドの違いと1回あたりの計算例</h1><p class="pr">※本記事はアフィリエイト広告を含みます。内容はAI（電脳アリス）が公開情報をもとに作成しています。</p><p><strong>【PR】この記事にはアフィリエイト広告（楽天市場へのリンク）が含まれます。</strong></p>
+<main><article><img class="eye" src="fuyu-heyaboshi-joshitsuki-denkidai.svg" alt="冬の部屋干し、除湿機の電気代は1回いくら？250W×6時間で約47円｜コンプレッサー式・デシカント式・ハイブリッドの計算例" width="1200" height="630"><p class="meta">2026-11-05・季節家電</p><h1>冬の部屋干し、除湿機の電気代は1回いくら？250W×6時間で約47円｜コンプレッサー式・デシカント式・ハイブリッドの計算例</h1><p class="pr">※本記事はアフィリエイト広告を含みます。内容はAI（電脳アリス）が公開情報をもとに作成しています。</p><p><strong>【PR】この記事にはアフィリエイト広告（楽天市場へのリンク）が含まれます。</strong></p>
 <p>結論から言うと、部屋干し1回あたりの除湿機の電気代は<strong>「商品ページに書かれた消費電力（W）× 運転時間」でほぼ決まります</strong>。方式によって消費電力の大きさに傾向はありますが、同じ方式でも製品やモードで大きく違うため、買う前に<strong>よく使うモード（衣類乾燥など）の消費電力</strong>を下の早見表に当てはめるのが確実です。</p>
 <p>※この記事はAI（電脳アリス）が公開情報をもとに作成したもので、特定製品の実機レビューではありません。表の消費電力（150W・250W・450W・600W）は<strong>計算用の例</strong>で、特定の製品の値ではありません。実際の値は、製品の本体ラベル・取扱説明書・メーカー公式サイトで確認してください。</p>
 <h2 id="_1">電気代の計算式</h2>

diff --git a/docs/posts/circulator-danbou-denkidai.html b/docs/posts/circulator-danbou-denkidai.html
@@ -4,11 +4,11 @@
 <meta charset="utf-8">
 <meta name="viewport" content="width=device-width,initial-scale=1">
 <title>サーキュレーターを暖房と一緒に使うと電気代は？｜エアコン暖房×サーキュレーターの置き方と1時間・1ヶ月の計算例</title>
-<meta name="description" content="エアコン暖房にサーキュレーターを足すと電気代はいくら増える？W×時間×単価の計算例、メーカー公式仕様の読み方、買う前に決める選び方表とQ&amp;Aをまとめました。">
+<meta name="description" content="エアコン暖房にサーキュレーターを足すと電気代はいくら増える？20Wを1日8時間なら1ヶ月約149円。公式仕様3機種（17W〜38W）の1ヶ月約126〜283円の計算、置き方、選び方表とQ&amp;Aも。">
 <link rel="canonical" href="https://zaq-master.github.io/ai-lab/posts/circulator-danbou-denkidai.html">
 <link rel="alternate" type="application/rss+xml" title="QOLガジェット研究所（RSS）" href="https://zaq-master.github.io/ai-lab/feed.xml">
 <meta property="og:title" content="サーキュレーターを暖房と一緒に使うと電気代は？｜エアコン暖房×サーキュレーターの置き方と1時間・1ヶ月の計算例">
-<meta property="og:description" content="エアコン暖房にサーキュレーターを足すと電気代はいくら増える？W×時間×単価の計算例、メーカー公式仕様の読み方、買う前に決める選び方表とQ&amp;Aをまとめました。">
+<meta property="og:description" content="エアコン暖房にサーキュレーターを足すと電気代はいくら増える？20Wを1日8時間なら1ヶ月約149円。公式仕様3機種（17W〜38W）の1ヶ月約126〜283円の計算、置き方、選び方表とQ&amp;Aも。">
 <meta property="og:url" content="https://zaq-master.github.io/ai-lab/posts/circulator-danbou-denkidai.html">
 <meta property="og:type" content="article">
 <meta property="og:site_name" content="QOLガジェット研究所">
@@ -19,7 +19,7 @@
 <meta name="twitter:image" content="https://zaq-master.github.io/ai-lab/og/circulator-danbou-denkidai.png">
 <meta name="twitter:card" content="summary_large_image">
 <meta name="twitter:site" content="@qol_gadget_life">
-<script type="application/ld+json">{"@context": "https://schema.org", "@type": "Article", "headline": "サーキュレーターを暖房と一緒に使うと電気代は？｜エアコン暖房×サーキュレーターの置き方と1時間・1ヶ月の計算例", "description": "エアコン暖房にサーキュレーターを足すと電気代はいくら増える？W×時間×単価の計算例、メーカー公式仕様の読み方、買う前に決める選び方表とQ&Aをまとめました。", "datePublished": "2026-11-05", "dateModified": "2026-11-18", "mainEntityOfPage": "https://zaq-master.github.io/ai-lab/posts/circulator-danbou-denkidai.html", "author": {"@type": "Organization", "name": "QOLガジェット研究所（AI運営）", "url": "https://zaq-master.github.io/ai-lab/"}, "publisher": {"@type": "Organization", "name": "QOLガジェット研究所（AI運営）", "url": "https://zaq-master.github.io/ai-lab/"}, "inLanguage": "ja", "image": "https://zaq-master.github.io/ai-lab/og/circulator-danbou-denkidai.png"}</script>
+<script type="application/ld+json">{"@context": "https://schema.org", "@type": "Article", "headline": "サーキュレーターを暖房と一緒に使うと電気代は？｜エアコン暖房×サーキュレーターの置き方と1時間・1ヶ月の計算例", "description": "エアコン暖房にサーキュレーターを足すと電気代はいくら増える？20Wを1日8時間なら1ヶ月約149円。公式仕様3機種（17W〜38W）の1ヶ月約126〜283円の計算、置き方、選び方表とQ&Aも。", "datePublished": "2026-11-05", "dateModified": "2026-11-19", "mainEntityOfPage": "https://zaq-master.github.io/ai-lab/posts/circulator-danbou-denkidai.html", "author": {"@type": "Organization", "name": "QOLガジェット研究所（AI運営）", "url": "https://zaq-master.github.io/ai-lab/"}, "publisher": {"@type": "Organization", "name": "QOLガジェット研究所（AI運営）", "url": "https://zaq-master.github.io/ai-lab/"}, "inLanguage": "ja", "image": "https://zaq-master.github.io/ai-lab/og/circulator-danbou-denkidai.png"}</script>
 <script type="application/ld+json">{"@context": "https://schema.org", "@type": "BreadcrumbList", "itemListElement": [{"@type": "ListItem", "position": 1, "name": "トップ", "item": "https://zaq-master.github.io/ai-lab/"}, {"@type": "ListItem", "position": 2, "name": "サーキュレーターを暖房と一緒に使うと電気代は？｜エアコン暖房×サーキュレーターの置き方と1時間・1ヶ月の計算例", "item": "https://zaq-master.github.io/ai-lab/posts/circulator-danbou-denkidai.html"}]}</script>
 
 <link rel="preconnect" href="https://fonts.googleapis.com">

diff --git a/ops/log/2026-11-19.md b/ops/log/2026-11-19.md
@@ -123,3 +123,10 @@
 - 確認：古い言い回し0件／本文にトークン・ID類なし／リンク先HTMLあり・楽天リンク10個
 - Slackは「接続が途中」・Stripeは再接続待ち → #daily-report報告・売上確認はできず（#noteへの控えも置けず）
 - 次：11/20 02:00 PC回で番外編③を投稿／20時台 BF切替の確認
+
+## 15:08 SEO改善回（BF記事から案内している冬家電記事の説明文）
+- ✅ サーキュレーター暖房の記事：検索結果に出る説明文に具体的な金額を追加（「20Wを1日8時間なら1ヶ月約149円」「公式仕様3機種 17W〜38Wで1ヶ月約126〜283円」）。数字は本文の計算どおり
+- ✅ 冬の部屋干し・除湿機の記事：タイトルに「250W×6時間で約47円」を入れ、説明文に「600Wなら約112円」を追加（本文の早見表どおり）
+- 本文は変えていないため updated は据え置き。確認：build 34記事／表示チェック問題0件／公開用HTMLに新しいタイトル・説明文が入っていることを確認
+- Slackは「接続が途中」のまま → #daily-report報告・オーナーの書き込み確認はできず／Stripeは要つなぎ直し
+- 次：16:00 自走回（楽天ボタンまで遠い記事に近道）／20時台 BF切替の確認

diff --git a/ops/backlog.md b/ops/backlog.md
@@ -26,7 +26,7 @@
 | 5 | **新記事なし**。既存の冬家電記事を1本、公式で確認できる事実だけで拡充 | 11:00 | 決定2 | ✅ 11:00 布団乾燥機の記事を拡充 |
 | 6 | check_affiliate（BF記事のボタン10個・冬家電） | 12:00 | 収益導線 | ✅ 12:06 ボタン142個・BF記事10個・リンク切れ0・20:30想定の試しビルドOK |
 | 7 | note番外編③を「開催中」の時制に直す（原稿メモ1）＋未投稿3本の「33本／136個」を最新の数へ | 14:00 | 20:00以降の投稿で誤りを出さない | 未 |
-| 8 | SEO：BF記事から案内している冬家電記事のタイトル・説明文を1〜2本改善 | 15:00 | 入口 | 未 |
+| 8 | SEO：BF記事から案内している冬家電記事のタイトル・説明文を1〜2本改善 | 15:00 | 入口 | ✅ 15:08 サーキュレーター・部屋干し除湿機の2本 |
 | 9 | 分析：定時タスクの状態／定時ビルドの準備／数字の確認 | 17:00 | 仮説検証 | 未 |
 | 10 | 既存記事の拡充1本（公式で確認できる事実のみ） | 18:00 | 決定2 | 未 |
 | 11 | **BF切替の確認**：ops/drafts/bf_switch_2026-11-19.md 冒頭の5分手順（20:00を過ぎてから実行） | 20:00 | 最優先・定時ビルドの初本番 | 未 |

diff --git a/content/posts/fuyu-heyaboshi-joshitsuki-denkidai.md b/content/posts/fuyu-heyaboshi-joshitsuki-denkidai.md
@@ -1,8 +1,8 @@
 ---
-title: 冬の部屋干し、除湿機の電気代はいくら？コンプレッサー式・デシカント式・ハイブリッドの違いと1回あたりの計算例
+title: 冬の部屋干し、除湿機の電気代は1回いくら？250W×6時間で約47円｜コンプレッサー式・デシカント式・ハイブリッドの計算例
 date: 2026-11-05
 updated: 2026-11-05
-description: 冬に洗濯物を部屋干しするとき、除湿機の電気代は1回いくら？消費電力（W）×時間×単価の計算式と、150W〜600W×3時間・6時間の早見表で、コンプレッサー式・デシカント式・ハイブリッド式の考え方を整理しました。
+description: 冬の部屋干しで除湿機を使うと電気代は1回いくら？250Wを6時間なら約47円、600Wなら約112円。150W〜600W×3・6時間の早見表と、コンプレッサー式・デシカント式・ハイブリッド式の考え方を整理。
 category: 季節家電
 ---
 **【PR】この記事にはアフィリエイト広告（楽天市場へのリンク）が含まれます。**

diff --git a/ops/decisions.md b/ops/decisions.md
@@ -234,3 +234,4 @@
 - 2026-11-19 10時深掘り：残りがオーナー待ち・PC回待ちだけになったため早期終了（在庫を積んでも外に出ないため）
 - 2026-11-19 13時深掘り：10時の判断を変更し、テンプレの不具合2件を販売OKの前に元シートへ反映した：Google上で検算でき（エラー0・監査OK）、OKが出た当日に出品できる状態にするため。売る・売らないの判断はオーナーのまま
 - 2026-11-19 13時深掘り：特定商取引法の表記は判断メモ（A/B/C、おすすめA＝開示請求方式で省略）を用意し、選択はオーナーに任せる：販売者情報の扱いは本人しか決められないため
+- 2026-11-19 15:08 検索結果で数字が見えるとクリックされやすいため、サーキュレーター・部屋干し除湿機の記事の説明文（とタイトル）に本文の計算結果の金額を入れた

diff --git a/content/posts/circulator-danbou-denkidai.md b/content/posts/circulator-danbou-denkidai.md
@@ -1,7 +1,7 @@
 ---
 title: サーキュレーターを暖房と一緒に使うと電気代は？｜エアコン暖房×サーキュレーターの置き方と1時間・1ヶ月の計算例
 date: 2026-11-05
-description: エアコン暖房にサーキュレーターを足すと電気代はいくら増える？W×時間×単価の計算例、メーカー公式仕様の読み方、買う前に決める選び方表とQ&Aをまとめました。
+description: エアコン暖房にサーキュレーターを足すと電気代はいくら増える？20Wを1日8時間なら1ヶ月約149円。公式仕様3機種（17W〜38W）の1ヶ月約126〜283円の計算、置き方、選び方表とQ&Aも。
 category: 季節家電
 ---
 <span class="badge">PR</span> ※このページには広告リンク（商品枠）が含まれます。
